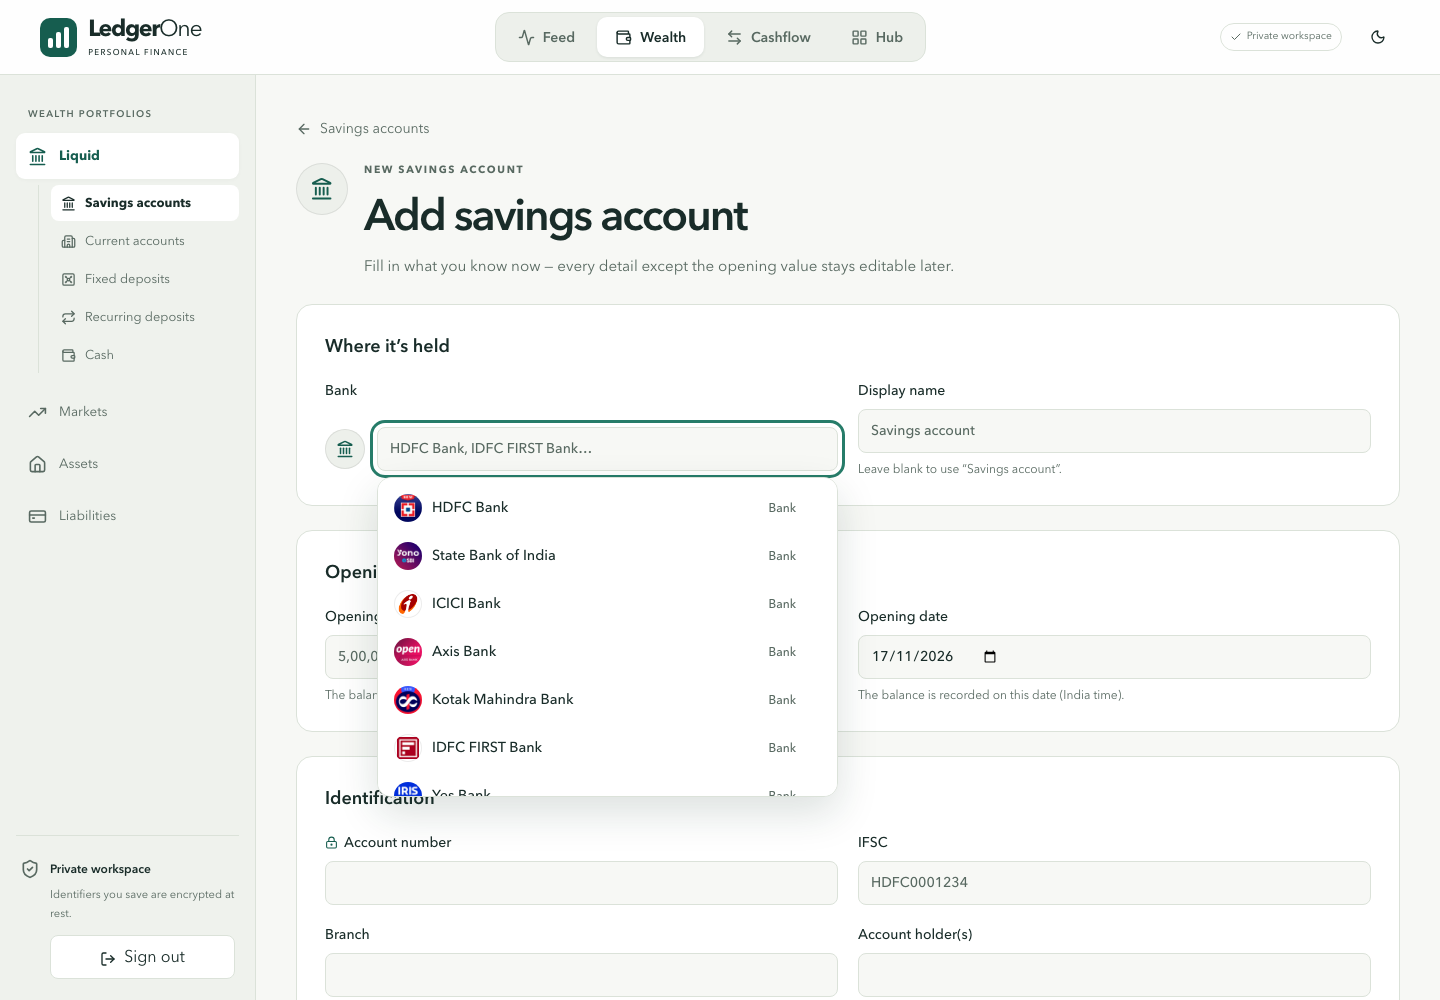
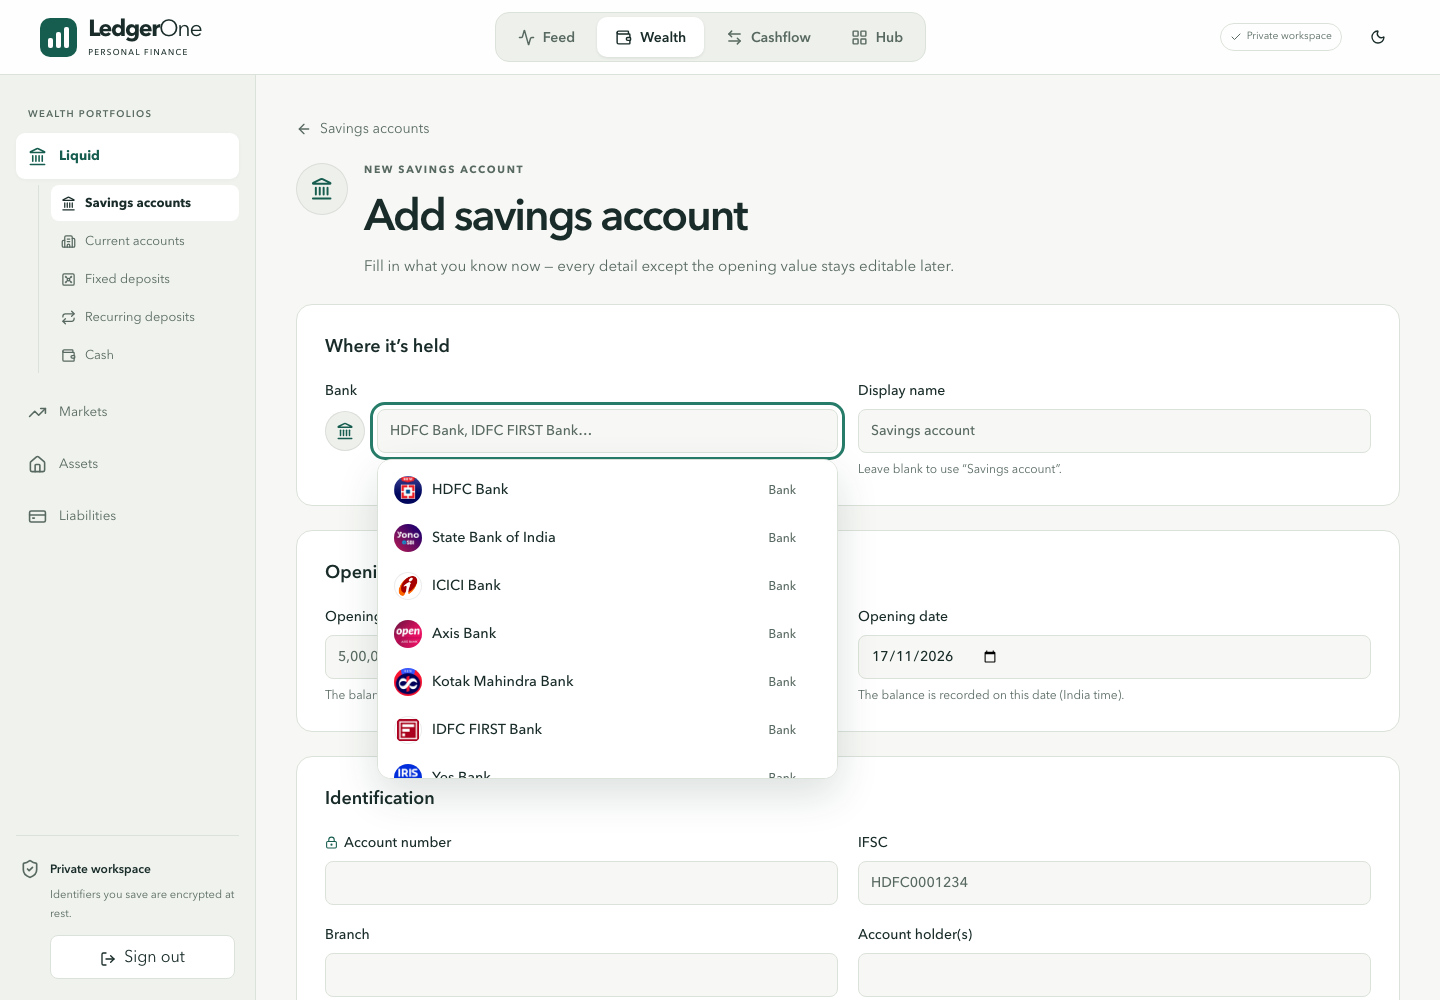
fix(wealth): align institution fields and fit form wording to each type
Fields beside the display name were stretched to its height and the
browser spread that space between label and input, pushing the input
down on Liquid, Assets and Liabilities forms. Pin field contents to the
top, title the first card per type (Where it's kept, About the vehicle,
Card issuer, Lender, Who owes you…) and drop the logo badge for free-text
holders such as cash, property and vehicles, in forms, lists, detail and
the account picker. Regression test asserts alignment and headings.

Changed region(s): [[0.2188, 0.403, 0.5938, 0.806], [0.5312, 0.527, 0.5625, 0.713]]

diff --git a/src/lib/wealth/catalog.ts b/src/lib/wealth/catalog.ts
@@ -43,6 +43,10 @@ export type CategoryDef = Readonly<{
   icon: string;
   institutionLabel: string;
   institutionHint: string;
+  /** Heading for the institution card on the form. */
+  whereTitle?: string;
+  /** False when the institution field is free text with no brand (cash, a car…). */
+  institutionLogo?: boolean;
   /** Registry kinds suggested for (and accepted as) the institution. */
   institutionKinds: readonly InstitutionKind[];
   /** Registry kinds suggested for the app / platform field. */
@@ -354,6 +358,8 @@ export const categories: readonly CategoryDef[] = [
   },
   {
     id: "cash",
+    whereTitle: "Where it’s kept",
+    institutionLogo: false,
     section: "liquid",
     label: "Cash",
     singular: "Cash wallet",
@@ -874,6 +880,8 @@ export const categories: readonly CategoryDef[] = [
   },
   {
     id: "property",
+    whereTitle: "About the property",
+    institutionLogo: false,
     section: "assets",
     label: "Property",
     singular: "Property",
@@ -917,6 +925,8 @@ export const categories: readonly CategoryDef[] = [
   },
   {
     id: "vehicles",
+    whereTitle: "About the vehicle",
+    institutionLogo: false,
     section: "assets",
     label: "Vehicles",
     singular: "Vehicle",
@@ -959,6 +969,8 @@ export const categories: readonly CategoryDef[] = [
   },
   {
     id: "receivables",
+    whereTitle: "Who owes you",
+    institutionLogo: false,
     section: "assets",
     label: "Money owed to you",
     singular: "Receivable",
@@ -976,6 +988,8 @@ export const categories: readonly CategoryDef[] = [
   },
   {
     id: "other-assets",
+    whereTitle: "About the asset",
+    institutionLogo: false,
     section: "assets",
     label: "Other assets",
     singular: "Asset",
@@ -998,6 +1012,7 @@ export const categories: readonly CategoryDef[] = [
   },
   {
     id: "credit-cards",
+    whereTitle: "Card issuer",
     section: "liabilities",
     label: "Credit cards",
     singular: "Credit card",
@@ -1062,6 +1077,7 @@ export const categories: readonly CategoryDef[] = [
   },
   {
     id: "loans",
+    whereTitle: "Lender",
     section: "liabilities",
     label: "Loans",
     singular: "Loan",
@@ -1122,6 +1138,8 @@ export const categories: readonly CategoryDef[] = [
   },
   {
     id: "other-liabilities",
+    whereTitle: "Who you owe",
+    institutionLogo: false,
     section: "liabilities",
     label: "Other liabilities",
     singular: "Liability",
@@ -1185,6 +1203,10 @@ export function defaultCategory(kind: string): CategoryDef {
       OTHER_LIABILITY: "other-liabilities",
     }[kind] ?? "other-assets";
   return findCategory(id)!;
+}
+/** Whether the institution name can carry a brand/generated logo. */
+export function showsInstitutionLogo(category: CategoryDef) {
+  return category.institutionLogo !== false;
 }
 export function categoryHref(category: CategoryDef) {
   return `/wealth/${category.section}/${category.id}`;

diff --git a/src/components/wealth/holding-form.tsx b/src/components/wealth/holding-form.tsx
@@ -10,6 +10,7 @@ import { parseAmount } from "@/lib/ledger/money";
 import {
   categoryHref,
   findCategory,
+  showsInstitutionLogo,
   type CategoryDef,
   type FieldDef,
 } from "@/lib/wealth/catalog";
@@ -35,7 +36,9 @@ import { AccountPicker } from "./account-picker";
 import { InstitutionInput } from "./institution-input";
 import { InstitutionLogo, resolveInstitution } from "./institution-logo";
 
-const field = "grid gap-2 text-sm font-medium";
+// content-start: a field stretched to its row neighbour’s height must not
+// spread that space between its label and control.
+const field = "grid content-start gap-2 text-sm font-medium";
 const select = "form-select";
 const groups: { id: FieldDef["group"]; title: string; hint?: string }[] = [
   { id: "identity", title: "Identification" },
@@ -509,7 +512,7 @@ export function HoldingForm({
       </Link>
       <div className="flex items-start gap-4">
         <InstitutionLogo
-          name={institution || name}
+          name={showsInstitutionLogo(category) ? institution || name : null}
           institutionKey={institutionMatch?.key}
           icon={category.icon}
           kinds={category.institutionKinds}
@@ -557,20 +560,24 @@ export function HoldingForm({
         aria-label={editing ? "Edit holding" : "Add holding"}
       >
         <Card className="grid gap-5">
-          <h2 className="text-lg font-semibold">Where it’s held</h2>
+          <h2 className="text-lg font-semibold">
+            {category.whereTitle ?? "Where it’s held"}
+          </h2>
           <div className="grid gap-5 sm:grid-cols-2">
             <div className={field}>
               <label htmlFor="input-institution">
                 {category.institutionLabel}
               </label>
               <div className="flex items-center gap-3">
-                <InstitutionLogo
-                  name={institution}
-                  institutionKey={institutionMatch?.key}
-                  icon={category.icon}
-                  kinds={category.institutionKinds}
-                  size={40}
-                />
+                {showsInstitutionLogo(category) && (
+                  <InstitutionLogo
+                    name={institution}
+                    institutionKey={institutionMatch?.key}
+                    icon={category.icon}
+                    kinds={category.institutionKinds}
+                    size={40}
+                  />
+                )}
                 <InstitutionInput
                   id="input-institution"
                   kinds={category.institutionKinds}

diff --git a/src/components/wealth/holding-detail.tsx b/src/components/wealth/holding-detail.tsx
@@ -14,7 +14,12 @@ import {
 } from "lucide-react";
 import { Button } from "@/components/ui/button";
 import { Card } from "@/components/ui/card";
-import { categoryHref, findSection, type FieldDef } from "@/lib/wealth/catalog";
+import {
+  categoryHref,
+  findSection,
+  showsInstitutionLogo,
+  type FieldDef,
+} from "@/lib/wealth/catalog";
 import {
   depositMaturityEstimate,
   daysBetween,
@@ -198,7 +203,11 @@ export function HoldingDetail({ holdingId }: { holdingId: string }) {
       <div className="page-heading !mb-0">
         <div className="flex min-w-0 items-start gap-4">
           <InstitutionLogo
-            name={holding.institution ?? holding.name}
+            name={
+              showsInstitutionLogo(c)
+                ? (holding.institution ?? holding.name)
+                : null
+            }
             institutionKey={holding.institutionKey}
             icon={c.icon}
             kinds={c.institutionKinds}
@@ -333,13 +342,15 @@ export function HoldingDetail({ holdingId }: { holdingId: string }) {
                 <dd className="flex items-center gap-2">
                   {holding.institution ? (
                     <>
-                      <InstitutionLogo
-                        name={holding.institution}
-                        institutionKey={holding.institutionKey}
-                        icon={c.icon}
-                        kinds={c.institutionKinds}
-                        size={22}
-                      />
+                      {showsInstitutionLogo(c) && (
+                        <InstitutionLogo
+                          name={holding.institution}
+                          institutionKey={holding.institutionKey}
+                          icon={c.icon}
+                          kinds={c.institutionKinds}
+                          size={22}
+                        />
+                      )}
                       {holding.institution}
                     </>
                   ) : (

diff --git a/tests/e2e/wealth.spec.ts b/tests/e2e/wealth.spec.ts
@@ -221,6 +221,31 @@ test("Wealth: bank account with identifiers, FD funded via platform, edit, archi
   ).toBeVisible();
 });
 
+test("Wealth forms align fields and word sections per type", async ({
+  page,
+  isMobile,
+}) => {
+  const forms: [string, string, boolean][] = [
+    ["liquid/savings", "Where it’s held", true],
+    ["liquid/cash", "Where it’s kept", false],
+    ["assets/vehicles", "About the vehicle", false],
+    ["assets/property", "About the property", false],
+    ["liabilities/credit-cards", "Card issuer", true],
+    ["liabilities/loans", "Lender", true],
+  ];
+  for (const [path, heading, badge] of forms) {
+    await page.goto(`/wealth/${path}/new`);
+    await expect(page.locator("form h2").first()).toHaveText(heading);
+    const card = page.locator("form > div").first();
+    await expect(card.locator(".institution-logo")).toHaveCount(badge ? 1 : 0);
+    if (!isMobile) {
+      const a = await page.locator("#input-institution").boundingBox();
+      const b = await page.locator("#input-name").boundingBox();
+      expect(Math.abs(a!.y - b!.y), path).toBeLessThan(1);
+    }
+  }
+});
+
 test("Wealth API rejects cross-site writes and mismatched categories", async ({
   page,
 }) => {

diff --git a/src/components/wealth/wealth-views.tsx b/src/components/wealth/wealth-views.tsx
@@ -9,6 +9,7 @@ import {
   categoryHref,
   findCategory,
   findSection,
+  showsInstitutionLogo,
   sectionCategories,
   type CategoryDef,
   type SectionId,
@@ -141,7 +142,11 @@ export function HoldingCard({ holding }: { holding: Holding }) {
     <Link href={holdingHref(holding)} className="holding-card">
       <div className="flex items-start gap-3">
         <InstitutionLogo
-          name={holding.institution ?? holding.name}
+          name={
+            showsInstitutionLogo(c)
+              ? (holding.institution ?? holding.name)
+              : null
+          }
           institutionKey={holding.institutionKey}
           icon={c.icon}
           kinds={c.institutionKinds}
@@ -182,7 +187,11 @@ export function HoldingRow({ holding }: { holding: Holding }) {
     <li>
       <Link href={holdingHref(holding)} className="holding-row">
         <InstitutionLogo
-          name={holding.institution ?? holding.name}
+          name={
+            showsInstitutionLogo(c)
+              ? (holding.institution ?? holding.name)
+              : null
+          }
           institutionKey={holding.institutionKey}
           icon={c.icon}
           kinds={c.institutionKinds}

diff --git a/src/components/wealth/account-picker.tsx b/src/components/wealth/account-picker.tsx
@@ -1,6 +1,7 @@
 "use client";
 import { useEffect, useId, useRef, useState, type KeyboardEvent } from "react";
 import { Check, ChevronDown } from "lucide-react";
+import { showsInstitutionLogo } from "@/lib/wealth/catalog";
 import type { Holding } from "@/lib/wealth/types";
 import { cn } from "@/lib/utils";
 import { rupees } from "./client";
@@ -99,7 +100,11 @@ export function AccountPicker({
     h ? (
       <>
         <InstitutionLogo
-          name={h.institution ?? h.name}
+          name={
+            showsInstitutionLogo(categoryOf(h))
+              ? (h.institution ?? h.name)
+              : null
+          }
           institutionKey={h.institutionKey}
           icon={categoryOf(h).icon}
           kinds={categoryOf(h).institutionKinds}
